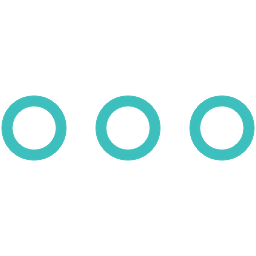
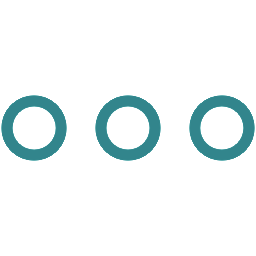
darken colors on mobile nav all around

Changed region(s): [[0.7188, 0.3438, 1.0, 0.6562], [0.0, 0.3438, 0.2812, 0.6562], [0.375, 0.375, 0.625, 0.625]]

diff --git a/css/main.css b/css/main.css
@@ -191,16 +191,16 @@
     nav.menu.drawer.closed {
       display: none; }
     nav.menu.drawer a {
-      color: #dfd8d7; }
+      color: #a9a2a6; }
       nav.menu.drawer a.current {
-        color: #3dbfbd; }
+        color: #32858c; }
         nav.menu.drawer a.current .border {
           display: inline-block;
           width: 0;
           height: 0.5em; }
           nav.menu.drawer a.current .border::after {
             content: '';
-            border: 0.2em solid #3dbfbd;
+            border: 0.2em solid #32858c;
             border-radius: 50%;
             display: block;
             left: 0.6em;
@@ -211,7 +211,7 @@
       padding: 0; }
       nav.menu.drawer ul li {
         background: white;
-        border-top: 2px solid #f6f4f3;
+        border-top: 2px solid #dfd8d7;
         font-size: 1.2em;
         font-weight: 400;
         padding: 3vh 2vh;
@@ -307,12 +307,12 @@ nav.main.menu {
           position: relative; }
           nav.main.menu.mobile ul a.current li,
           nav.main.menu.mobile ul a.hamburger.current li {
-            color: #3dbfbd; }
+            color: #32858c; }
           nav.main.menu.mobile ul a.current .border,
           nav.main.menu.mobile ul a.hamburger.current .border {
             display: none; }
       nav.main.menu.mobile ul li {
-        color: #c9bcba;
+        color: #91878d;
         height: 100%;
         position: relative;
         text-transform: none;

diff --git a/css/scss/nav.scss b/css/scss/nav.scss
@@ -16,16 +16,16 @@ nav.menu.drawer {
 			display: none;
 		}
 		a {
-			color: lighten($grey-light, 10%);
+			color: lighten($grey-medium, 10%);
 			&.current {
-				color: $turquoise-light;
+				color: $turquoise;
 				.border {
 					display: inline-block;
 					width: 0;
 					height: 0.5em;
 					&::after {
 						content: '';
-						border: 0.2em solid $turquoise-light;
+						border: 0.2em solid $turquoise;
 						border-radius: 50%;
 						display: block;
 						left: 0.6em;
@@ -40,7 +40,7 @@ nav.menu.drawer {
 			padding: 0;
 			li {
 				background: white;
-				border-top: 2px solid lighten($grey-light, 20%);
+				border-top: 2px solid lighten($grey-light, 10%);
 				font-size: 1.2em;
 				font-weight: 400;
 				padding: 3vh 2vh;
@@ -117,7 +117,7 @@ nav.main.menu {
 				&.current {
 					position: relative;
 					li {
-						color: $turquoise-light;
+						color: $turquoise;
 					}
 					.border {
 						display: none;
@@ -128,7 +128,7 @@ nav.main.menu {
 				@include respond-to('at400') {
 					font-size: 0.8em;
 				}
-				color: $grey-light;
+				color: $grey-medium;
 				height: 100%;
 				position: relative;
 				text-transform: none;
